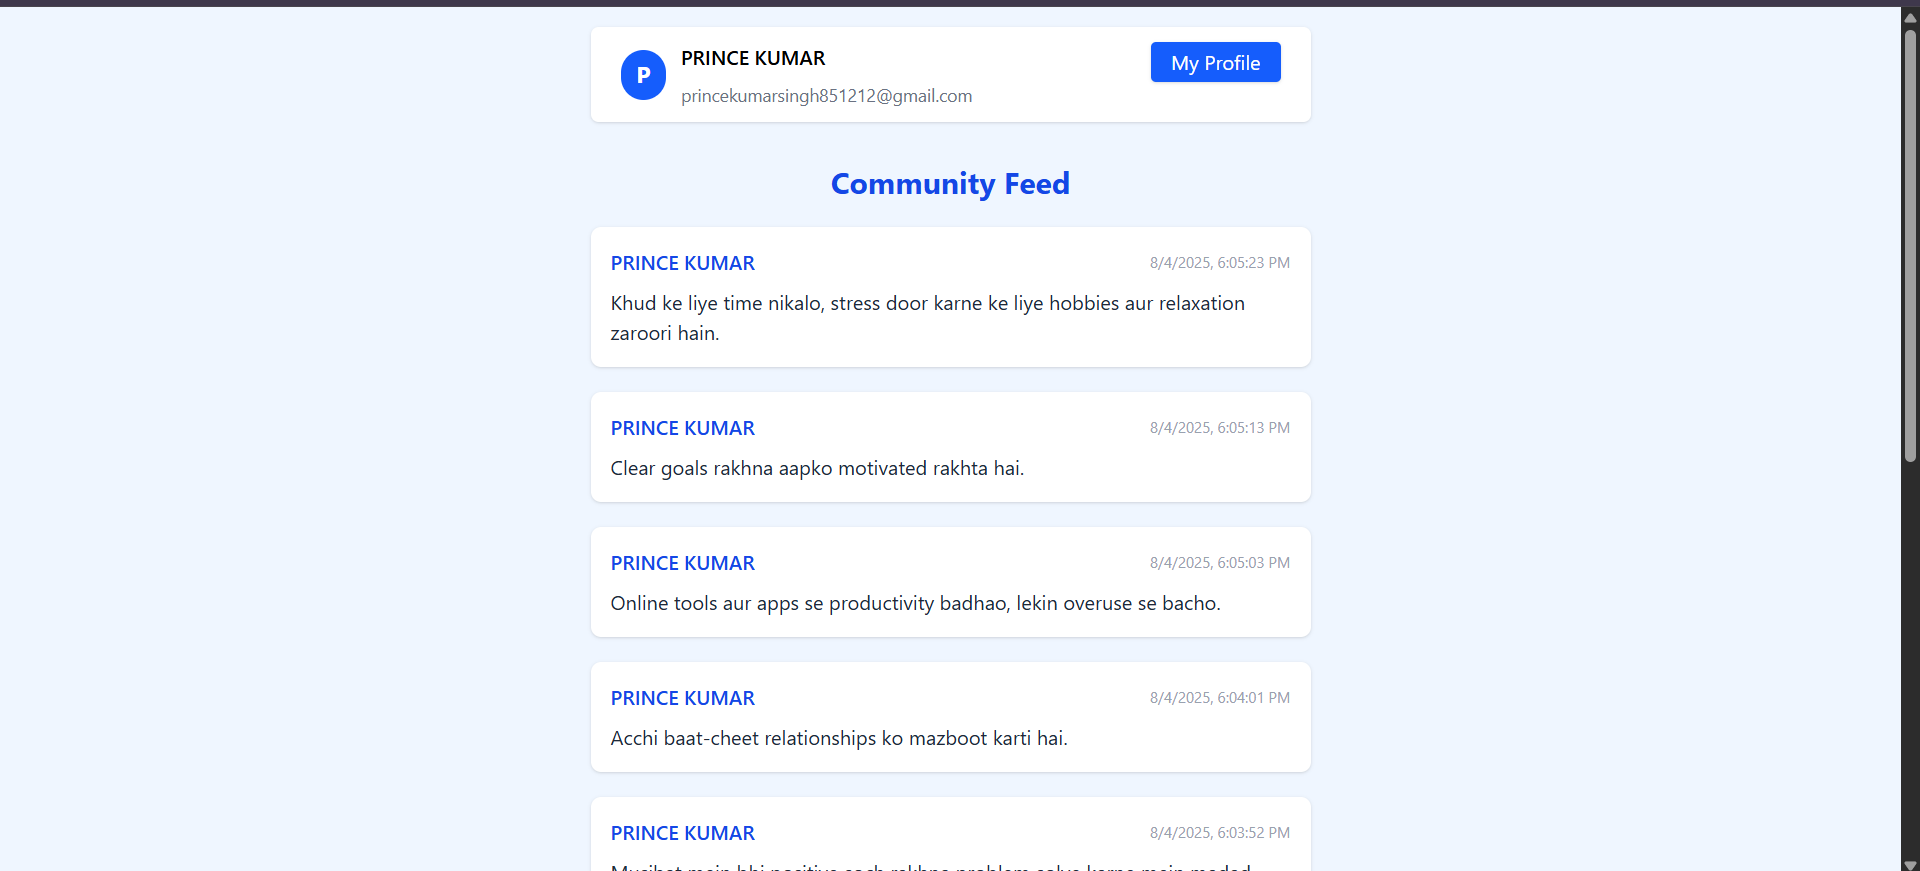
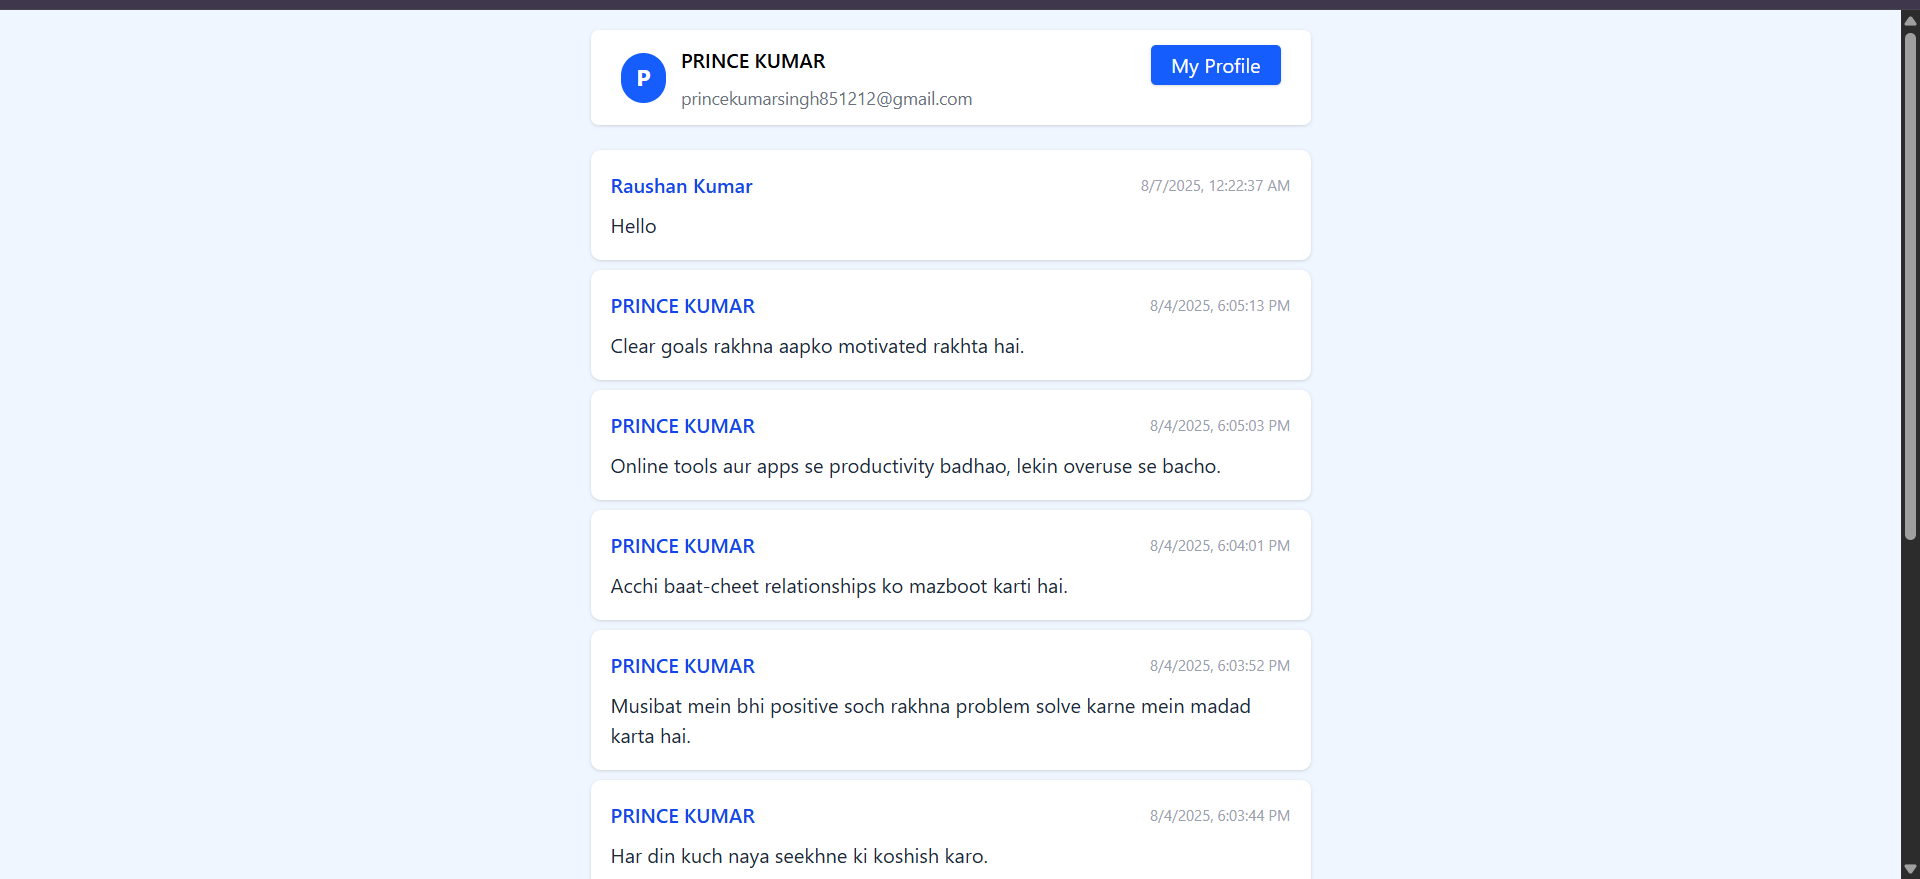
change community heading from home feed

diff --git a/client/src/pages/Home.jsx b/client/src/pages/Home.jsx
@@ -4,6 +4,7 @@ import { getAllPosts } from "../store/postSlice.js";
 import { Link } from "react-router-dom";
 import toast from "react-hot-toast";
 import CommunityUser from "../components/CommunityUser.jsx";
+import Loading from "../components/Loading.jsx";
 
 export default function HomeFeed() {
   const dispatch = useDispatch();
@@ -28,7 +29,7 @@ export default function HomeFeed() {
 
   return (
     <div className="min-h-screen bg-blue-50 pt-4 pb-10 px-2">
-      <header className="bg-white shadow rounded-md max-w-xl mx-auto flex items-center justify-between px-3 md:px-6 py-3 mb-8">
+      <header className="bg-white shadow rounded-md max-w-xl mx-auto flex items-center justify-between px-3 md:px-6 py-3 md:mb-5 mb-3">
         <div className="flex items-center gap-3 w-full">
           <div className="bg-blue-600 text-white flex items-center justify-center rounded-full w-10 h-10 font-bold text-lg uppercase">
             {user?.name?.[0] || "U"}
@@ -48,13 +49,12 @@ export default function HomeFeed() {
         </div>
       </header>
       <main className="max-w-xl mx-auto">
-        <h1 className="text-2xl font-bold mb-5 text-blue-700 text-center">
-          Community Feed
-        </h1>
         {loading && (
-          <p className="text-center text-gray-400 mb-8">Loading posts...</p>
+          <div className="flex justify-center items-center "> 
+             <Loading className="mb-8" />
+          </div>
         )}
-        <ul className="space-y-5">
+        <ul className="space-y-2">
           {posts &&
             posts.length > 0 &&
             posts.map((post) => (

diff --git a/client/src/components/Loading.jsx b/client/src/components/Loading.jsx
@@ -1,0 +1,17 @@
+import React from 'react'
+
+function Loading() {
+  return (
+    <div>
+        <div role="status">
+            <svg aria-hidden="true" className="w-8 h-8 text-blue-200 animate-spin fill-blue-500" viewBox="0 0 100 101" fill="none" xmlns="http://www.w3.org/2000/svg">
+                <path d="M100 50.5908C100 78.2051 77.6142 100.591 50 100.591C22.3858 100.591 0 78.2051 0 50.5908C0 22.9766 22.3858 0.59082 50 0.59082C77.6142 0.59082 100 22.9766 100 50.5908ZM9.08144 50.5908C9.08144 73.1895 27.4013 91.5094 50 91.5094C72.5987 91.5094 90.9186 73.1895 90.9186 50.5908C90.9186 27.9921 72.5987 9.67226 50 9.67226C27.4013 9.67226 9.08144 27.9921 9.08144 50.5908Z" fill="currentColor"/>
+                <path d="M93.9676 39.0409C96.393 38.4038 97.8624 35.9116 97.0079 33.5539C95.2932 28.8227 92.871 24.3692 89.8167 20.348C85.8452 15.1192 80.8826 10.7238 75.2124 7.41289C69.5422 4.10194 63.2754 1.94025 56.7698 1.05124C51.7666 0.367541 46.6976 0.446843 41.7345 1.27873C39.2613 1.69328 37.813 4.19778 38.4501 6.62326C39.0873 9.04874 41.5694 10.4717 44.0505 10.1071C47.8511 9.54855 51.7191 9.52689 55.5402 10.0491C60.8642 10.7766 65.9928 12.5457 70.6331 15.2552C75.2735 17.9648 79.3347 21.5619 82.5849 25.841C84.9175 28.9121 86.7997 32.2913 88.1811 35.8758C89.083 38.2158 91.5421 39.6781 93.9676 39.0409Z" fill="currentFill"/>
+            </svg>
+            <span className="sr-only">Loading...</span>
+        </div>
+    </div>
+  ) 
+}
+
+export default Loading

diff --git a/client/src/components/CommunityUser.jsx b/client/src/components/CommunityUser.jsx
@@ -5,7 +5,7 @@ export default function CommunityUser({ closeOpenProfile, post }) {
     <div className="fixed inset-0 z-50 bg-black/50 flex items-center justify-center backdrop-blur-sm">
       <div className="relative bg-white rounded-xl shadow-2xl w-full max-w-md mx-auto p-0 overflow-hidden">
         <div className="flex flex-col items-center  bg-blue-100 px-5 py-4">
-          <div className="flex flex-col gap-3">
+          <div className="flex flex-col gap-3 w-full">
             <div className="flex flex-row items-center justify-between w-full">
               <div className="flex flex-row items-center gap-3">
                 <div className="w-14 h-14 bg-blue-600 text-white rounded-full flex items-center justify-center text-3xl font-bold uppercase shadow">
